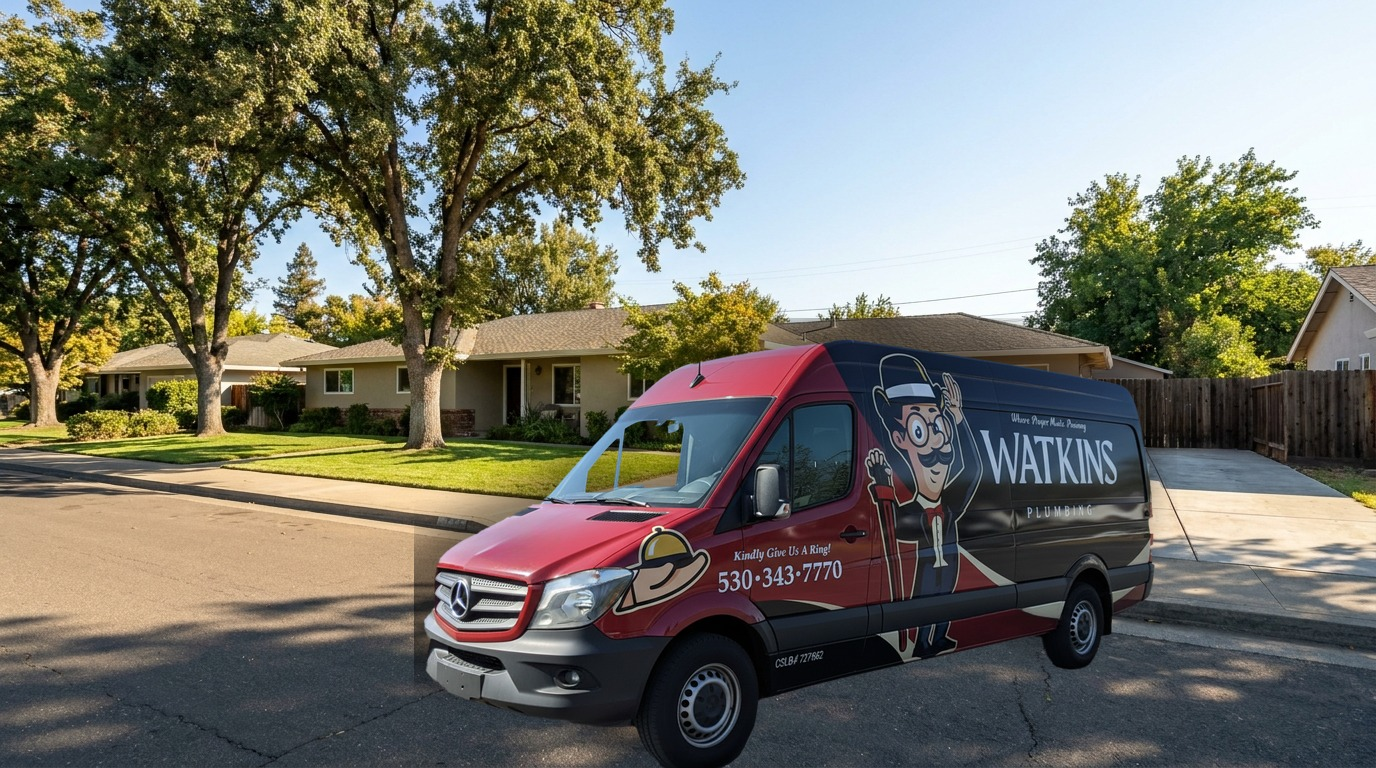
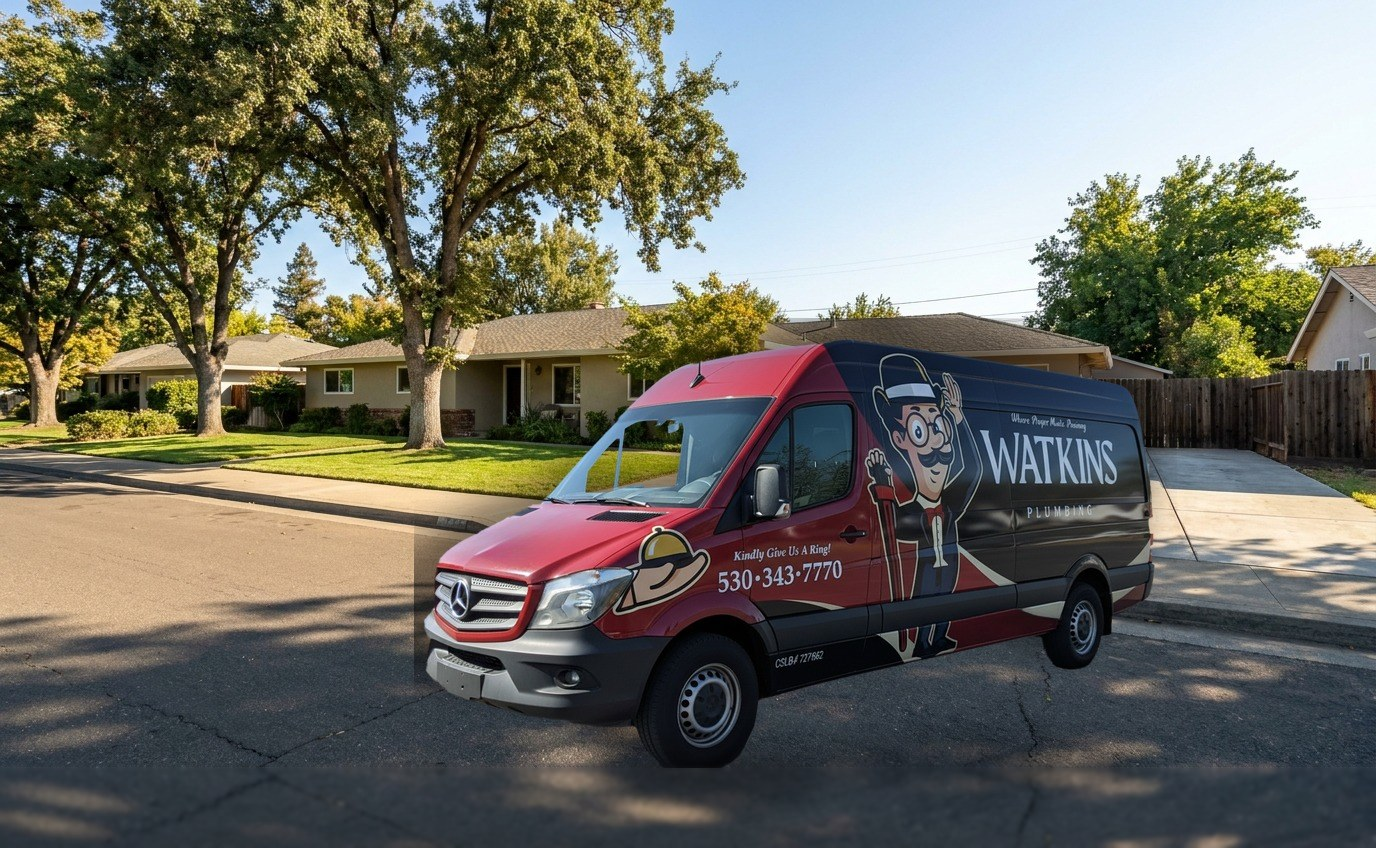
Hero: lift van off the bottom edge (extend road below, anchor bg bottom)
Van tires sat at the image's bottom edge, so cover-cropping clipped the
wheels on wide screens and the van read as dropping out of the hero.
Kept the approved v3 van pixels untouched; extended the canvas 80px down
with mirrored road + continued ground shadow, and switched .hv2-bg to
background-position: center bottom so the ground under the van always
stays in frame. Cache-bust ?v=3.

diff --git a/index.html b/index.html
@@ -140,7 +140,7 @@
     .hv2 { position: relative; min-height: 92vh; overflow: hidden; display: flex; flex-direction: column; justify-content: center;
       background: #0c0e0d; border-top: 3px solid transparent;
       border-image: linear-gradient(90deg, transparent, #d9a441 20%, #d9a441 80%, transparent) 1; }
-    .hv2-bg { position: absolute; inset: 0; background-size: cover; background-position: center 60%; }
+    .hv2-bg { position: absolute; inset: 0; background-size: cover; background-position: center bottom; }
     .hv2-scrim { position: absolute; inset: 0;
       background: linear-gradient(97deg, rgba(10,12,11,.93) 0%, rgba(10,12,11,.82) 34%, rgba(10,12,11,.34) 68%, rgba(10,12,11,.55) 100%); }
     .hv2-scrim::after { content:''; position:absolute; left:0; right:0; bottom:0; height:38%;
@@ -196,7 +196,7 @@
     }
   </style>
   <section class="hv2">
-    <div class="hv2-bg" style="background-image:url('images/hero-video-poster.jpg?v=2')" aria-hidden="true"></div>
+    <div class="hv2-bg" style="background-image:url('images/hero-video-poster.jpg?v=3')" aria-hidden="true"></div>
     <div class="hv2-scrim"></div>
     <div class="hv2-wrap">
       <div class="hv2-eyebrow hv2-rise hv2-d1">CHICO &middot; OROVILLE &middot; PARADISE</div>
